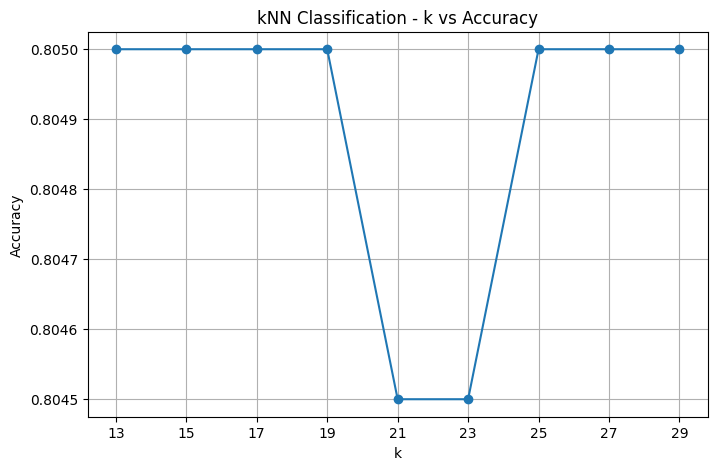
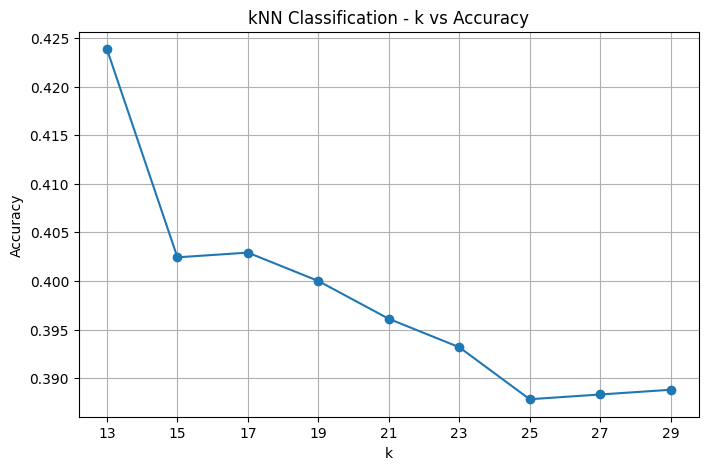
fixing clas imbalance in kNN classification

diff --git a/ProjectCodes/PythonProject/src/kNN.py b/ProjectCodes/PythonProject/src/kNN.py
@@ -15,6 +15,7 @@ from sklearn.metrics import (
     classification_report,
     confusion_matrix
 )
+from sklearn.utils import resample
 
 class KNNFromScratch:
     """
@@ -126,12 +127,34 @@ class KNNRunner:
 
         if mode == "regression":
             y = df_sample[self.target_col].values
+            X_np = X.values.astype(np.float64)
+            y_np = y.astype(np.float64)
+
         else:
             delay = df_sample[self.target_col]
             y = np.where(delay < 15, 0, np.where(delay <= 30, 1, 2))
 
-        X_np = X.values.astype(np.float64)
-        y_np = y.astype(np.float64)
+            # Balance classes by undersampling majority class
+            df_temp = X.copy()
+            df_temp["__target__"] = y
+
+            on_time = df_temp[df_temp["__target__"] == 0]
+            short = df_temp[df_temp["__target__"] == 1]
+            long_ = df_temp[df_temp["__target__"] == 2]
+
+            min_size = min(len(on_time), len(short), len(long_))
+
+            on_time_bal = resample(on_time, n_samples=min_size, random_state=self.random_state)
+            short_bal = resample(short, n_samples=min_size, random_state=self.random_state)
+            long_bal = resample(long_, n_samples=min_size, random_state=self.random_state)
+
+            df_balanced = pd.concat([on_time_bal, short_bal, long_bal])
+            df_balanced = df_balanced.sample(frac=1, random_state=self.random_state)
+
+            X_np = df_balanced.drop(columns=["__target__"]).values.astype(np.float64)
+            y_np = df_balanced["__target__"].values.astype(np.float64)
+
+            print(f"Balanced class sizes: {min_size} per class | Total: {len(y_np)}")
 
         X_train, X_test, y_train, y_test = train_test_split(
             X_np,
